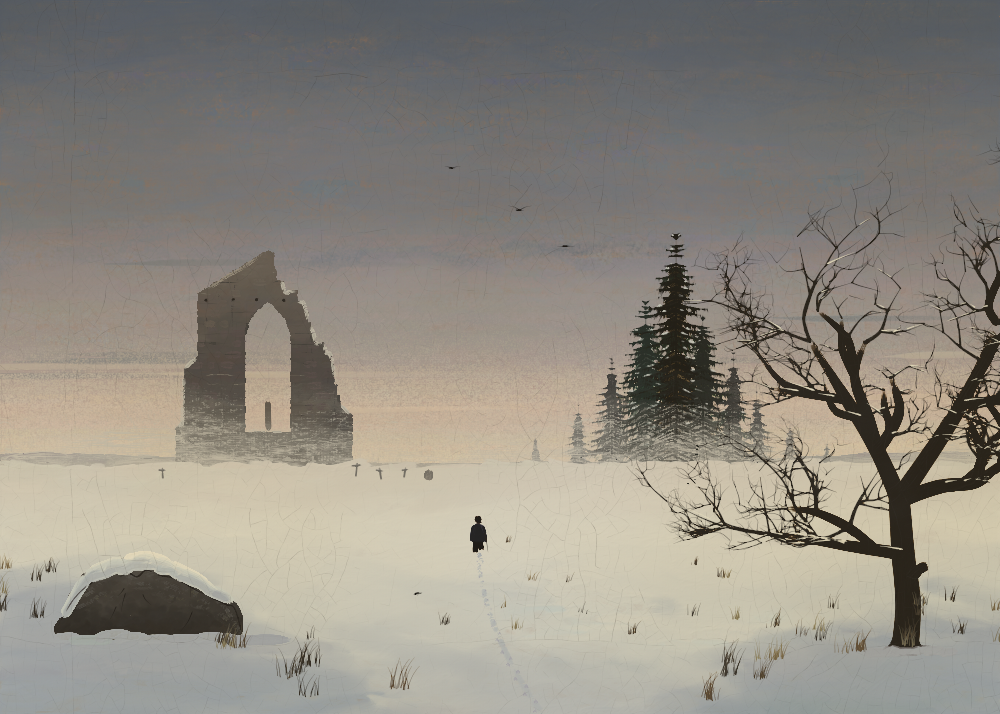
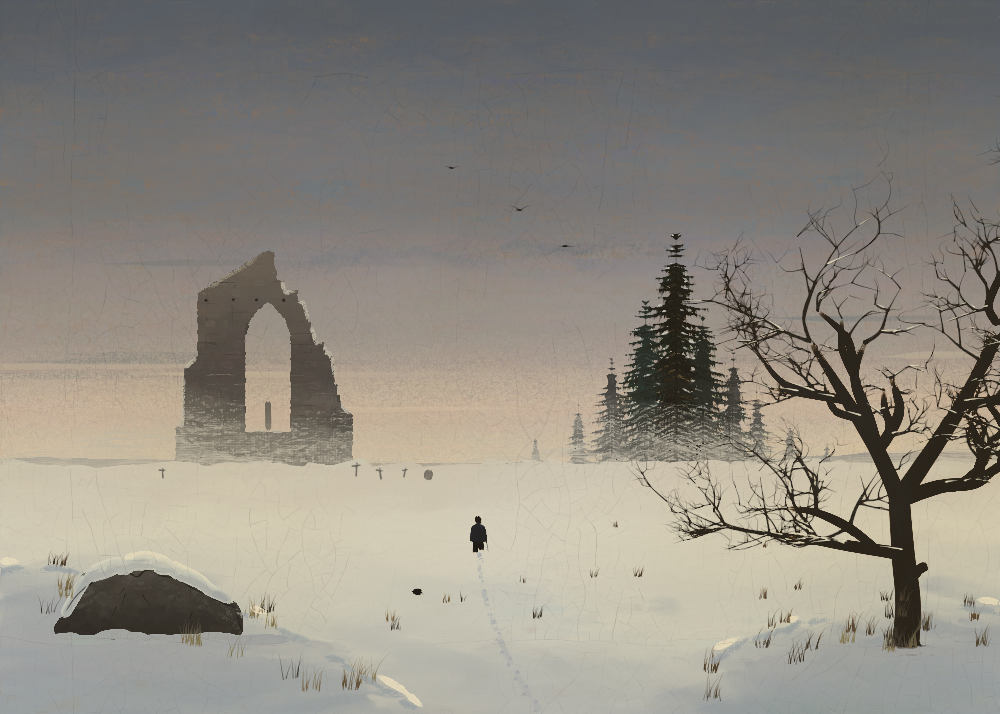
winter_ruin: bank crests, crow, hill, mullion

diff --git a/paintings/src/bin/winter_ruin.rs b/paintings/src/bin/winter_ruin.rs
@@ -35,7 +35,7 @@ fn main() {
     let hz = f.per_column(move |x: f32| 468.0 + 2.0 * n1.get(x, 0.0) - 3.0 * smoothstep(300.0, 700.0, x));
     // low wooded rises far off, left and right, almost lost in the haze
     let hill = f.per_column(move |x: f32| {
-        468.0 - 3.0 - 11.0 * (-((x - 40.0) / 200.0).powi(2)).exp() - 9.0 * (-((x - 960.0) / 170.0).powi(2)).exp() - 4.0 * n2.get(x, 3.0).abs() - 3.0 * smoothstep(300.0, 700.0, x)
+        468.0 - 3.0 - 6.0 * (-((x - 40.0) / 220.0).powi(2)).exp() - 9.0 * (-((x - 960.0) / 170.0).powi(2)).exp() - 4.0 * n2.get(x, 3.0).abs() - 3.0 * smoothstep(300.0, 700.0, x)
     });
     let soft = |d: f32, e: f32| smoothstep(-e, e, d);
     let sky = Mask::from_fn(f, move |x, y| 1.0 - soft(y - hill(x) - 3.0, 0.8));
@@ -190,7 +190,7 @@ fn main() {
         c.drag(&mut sab, &Gesture::new(pts).pressure(0.6, 0.35).ramps(0.05, 0.3).shake(0.3), Some(&ruin));
         // the tracery has fallen: a stump of the mullion on the sill, and
         // the springing of one sub-arch still hanging from the left jamb
-        let tr = pal.paint(hex("#686061"), 0.1).with_hiding(0.95).with_stiff(0.8);
+        let tr = pal.paint(hex("#736b6b"), 0.2).with_hiding(0.9).with_stiff(0.8);
         let mut mul = Held::new(Tool::round_sable(2.6), 202);
         mul.load(tr, 0.9);
         c.drag(&mut mul, &Gesture::new(vec![(rx + 0.4, 430.0), (rx + 0.2, 414.0), (rx - 0.3, 402.0)]).pressure(0.8, 0.7).ramps(0.05, 0.05).shake(0.4), None);
@@ -929,6 +929,38 @@ fn main() {
     }
 
     if o.stage("grass", &mut c, &mut rng) {
+        // the banks: a little impasto of lead white along the crests where
+        // they catch the sky [NG p.50: slight impasto in foreground snow],
+        // and below each crest a lean cool shade on the face turned to us
+        let mut imp = Held::new(Tool { lay: 1.6, ragged: 0.35, ..Tool::filbert(6.0) }, 811);
+        let mut shd = Held::new(Tool { ragged: 0.45, push: 0.02, pickup: 0.05, ..Tool::filbert(12.0) }, 812);
+        for (x0, x1, which) in [(-10.0f32, 440.0f32, 0), (700.0, 1010.0, 1)] {
+            let crest = move |x: f32| if which == 0 { bank_l(x.clamp(0.0, 999.0)) } else { bank_r(x.clamp(0.0, 999.0)) };
+            let mut x = x0;
+            while x < x1 {
+                let len = rng.range(25.0, 70.0);
+                let pts: Vec<(f32, f32)> = (0..=5).map(|k| {
+                    let xx = x + len * k as f32 / 5.0;
+                    (xx, crest(xx) + rng.range(-0.6, 0.6))
+                }).collect();
+                // (not across the oak's trunk, which stands in the bank)
+                let clear_of_oak = x + len < 872.0 || x > 938.0;
+                if boulder.sample(x + len * 0.5, crest(x + len * 0.5)) < 0.1 && clear_of_oak {
+                    if rng.chance(0.45) {
+                        let a = rng.range(0.1, 0.5);
+                        let b = (a + rng.range(0.25, 0.5)).min(1.0);
+                        let part: Vec<(f32, f32)> = pts.iter().enumerate().filter(|(k, _)| { let u = *k as f32 / 5.0; u >= a - 0.1 && u <= b + 0.1 }).map(|(_, p)| *p).collect();
+                        imp.reload(pal.paint(hex("#ebe9e5"), 0.03).with_hiding(0.96).with_stiff(1.0), rng.range(0.5, 0.8));
+                        if part.len() >= 2 { c.drag(&mut imp, &Gesture::new(part).pressure(rng.range(0.25, 0.5), rng.range(0.1, 0.3)).ramps(0.3, 0.5).shake(0.4), None); }
+                    }
+                    let low: Vec<(f32, f32)> = pts.iter().map(|&(px, py)| (px, py + rng.range(6.0, 12.0))).collect();
+                    shd.reload(pal.paint(hex("#a4abbb"), 0.55), rng.range(0.2, 0.35));
+                    c.drag(&mut shd, &Gesture::new(low).pressure(rng.range(0.35, 0.6), rng.range(0.2, 0.4)).ramps(0.3, 0.4).shake(0.5), None);
+                }
+                x += len * rng.range(0.6, 1.0);
+            }
+        }
+        c.wait(90.0);
         // dry grass through the snow, "fine upturning strokes" laid last
         // [NG p.56]: clumps along the banks, a few in the field
         let cols = [hex("#5e5242"), hex("#766a55"), hex("#34302b"), hex("#4b4439"), hex("#857a64"), hex("#3e3a36")];
@@ -984,12 +1016,18 @@ fn main() {
             }
         }
         // one on the snow by the track
-        for &(x, y) in &[(418.0f32, 596.0f32)] {
-            b.reload(black, 0.7);
-            c.drag(&mut b, &Gesture::new(vec![(x - 3.0, y - 2.0), (x, y - 2.8), (x + 3.0, y - 2.2)]).pressure(1.0, 0.9).ramps(0.1, 0.2), None);
-            c.drag(&mut b, &Gesture::new(vec![(x + 2.6, y - 2.6), (x + 4.2, y - 3.6)]).pressure(0.7, 0.4).ramps(0.1, 0.3), None);
-            c.drag(&mut b, &Gesture::new(vec![(x - 2.5, y - 2.2), (x - 5.0, y - 1.2)]).pressure(0.6, 0.1).ramps(0.1, 0.5), None);
-            c.drag(&mut b, &Gesture::new(vec![(x - 0.5, y - 1.0), (x - 0.4, y)]).pressure(0.2, 0.2).ramps(0.1, 0.1), None);
+        // one on the snow by the walker's trail, head down, pecking
+        let (x, y) = (418.0f32, 596.0f32);
+        let mut cb = Held::new(Tool::round_sable(2.6), 902);
+        cb.load(black, 0.8);
+        c.drag(&mut cb, &Gesture::new(vec![(x - 4.0, y - 3.4), (x - 0.5, y - 4.4), (x + 3.0, y - 3.4)]).pressure(0.9, 0.8).ramps(0.1, 0.2), None);
+        b.reload(black, 0.7);
+        c.drag(&mut b, &Gesture::new(vec![(x + 2.8, y - 3.6), (x + 4.6, y - 2.6), (x + 5.8, y - 1.4)]).pressure(0.8, 0.2).ramps(0.1, 0.5), None);
+        c.drag(&mut b, &Gesture::new(vec![(x - 3.5, y - 3.8), (x - 6.5, y - 4.8), (x - 8.0, y - 5.2)]).pressure(0.7, 0.1).ramps(0.1, 0.6), None);
+        let mut leg = Held::new(Tool { point: 1.0, ..Tool::rigger(0.5) }, 903);
+        leg.load(black, 0.6);
+        for dx in [-1.2f32, 0.6] {
+            c.drag(&mut leg, &Gesture::new(vec![(x + dx, y - 2.6), (x + dx + 0.3, y)]).pressure(0.6, 0.5).ramps(0.1, 0.1), None);
         }
         c.dry();
     }

diff --git a/notes/round8/arm2/notes.md b/notes/round8/arm2/notes.md
@@ -90,6 +90,11 @@ black), 1.4:1, about 44 × 31 cm. Every paint is mixed from those tubes
     [NG p.56], clumps on the banks and a few in the field, pointed rigger,
     grays, umbers and dull ochers.
 12. **crows**: three in the air, one on the snow.
+    (Added late, in the track stage after the snow: what is left of a
+    churchyard at the ruin's foot, three leaning crosses with snow on their
+    arms and a round-topped headstone, pale with haze. The oak also got
+    bark: long wavering dark fissures and a few cool ridges; roots flaring
+    into the snow; drifts of the field's own color around its foot.)
 13. finish: aged varnish, craquelure, relief light (`Finish::aged`).
 
 ## FRICTION
@@ -128,8 +133,11 @@ black), 1.4:1, about 44 × 31 cm. Every paint is mixed from those tubes
 7. **Crops aren't cheap here.** A 3200px crop of the ruin took 24 s, the
    same as a whole 1000px preview: every mask (whole canvas, per-pixel
    closures with noise) is built for the whole 3200px canvas each run.
-8. **Aged finish corners.** The corner craquelure makes strong arcs in the
-   bottom corners at 1000px; the only control is dropping cracks.
+8. **Aged finish corners.** The corner craquelure makes parallel arcs in
+   the bottom corners that read, over pale snow, as ruled hatching. There
+   is a switch (`Cracks { corners: false, .. }`), which I found in
+   `crack.rs`, not in any note; I turned them off and lowered dirt and
+   grime (a painting kept with care).
 9. **The NaN trap is still a painter's trap.** A drift profile
    `sin(π·u).powf(0.6)` gave NaN at u = 1 (f32 `sin(π)` is −8.7e-8), the
    same bug the coast painter hit. The engine now panics with the point
@@ -144,4 +152,15 @@ black), 1.4:1, about 44 × 31 cm. Every paint is mixed from those tubes
     its mask stops and leaves an edge. What worked best: a small-brush veil
     with a wide, noisy load ramp, a stipple, then a badger *unclipped* over
     a mask reaching well above the mist.
-12. Minor: no integer draw on `Rng` (`below`); I used `range` and cast.
+12. **Stock brushes run dry along a long limb.** A round sable's `run` is
+    40 + 6·width units, so the oak's longer limbs, pulled in one gesture,
+    ran dry halfway and turned into dotted chains at 3200px. Physically
+    right, but a painter would reload or use a fuller brush; I raised
+    `run` to 320 for the oak. It is invisible at 1000px and obvious at
+    3200px, so it only shows up in full-res crops.
+13. **Stage order vs. what a later stage covers.** The churchyard crosses,
+    painted in the ruin stage, vanished under the snow stage (the field is
+    painted over everything below the horizon). This was my ordering
+    mistake, not an engine fault, but nothing tells you a stage's marks
+    were fully covered; I moved them after the snow.
+14. Minor: no integer draw on `Rng` (`below`); I used `range` and cast.
